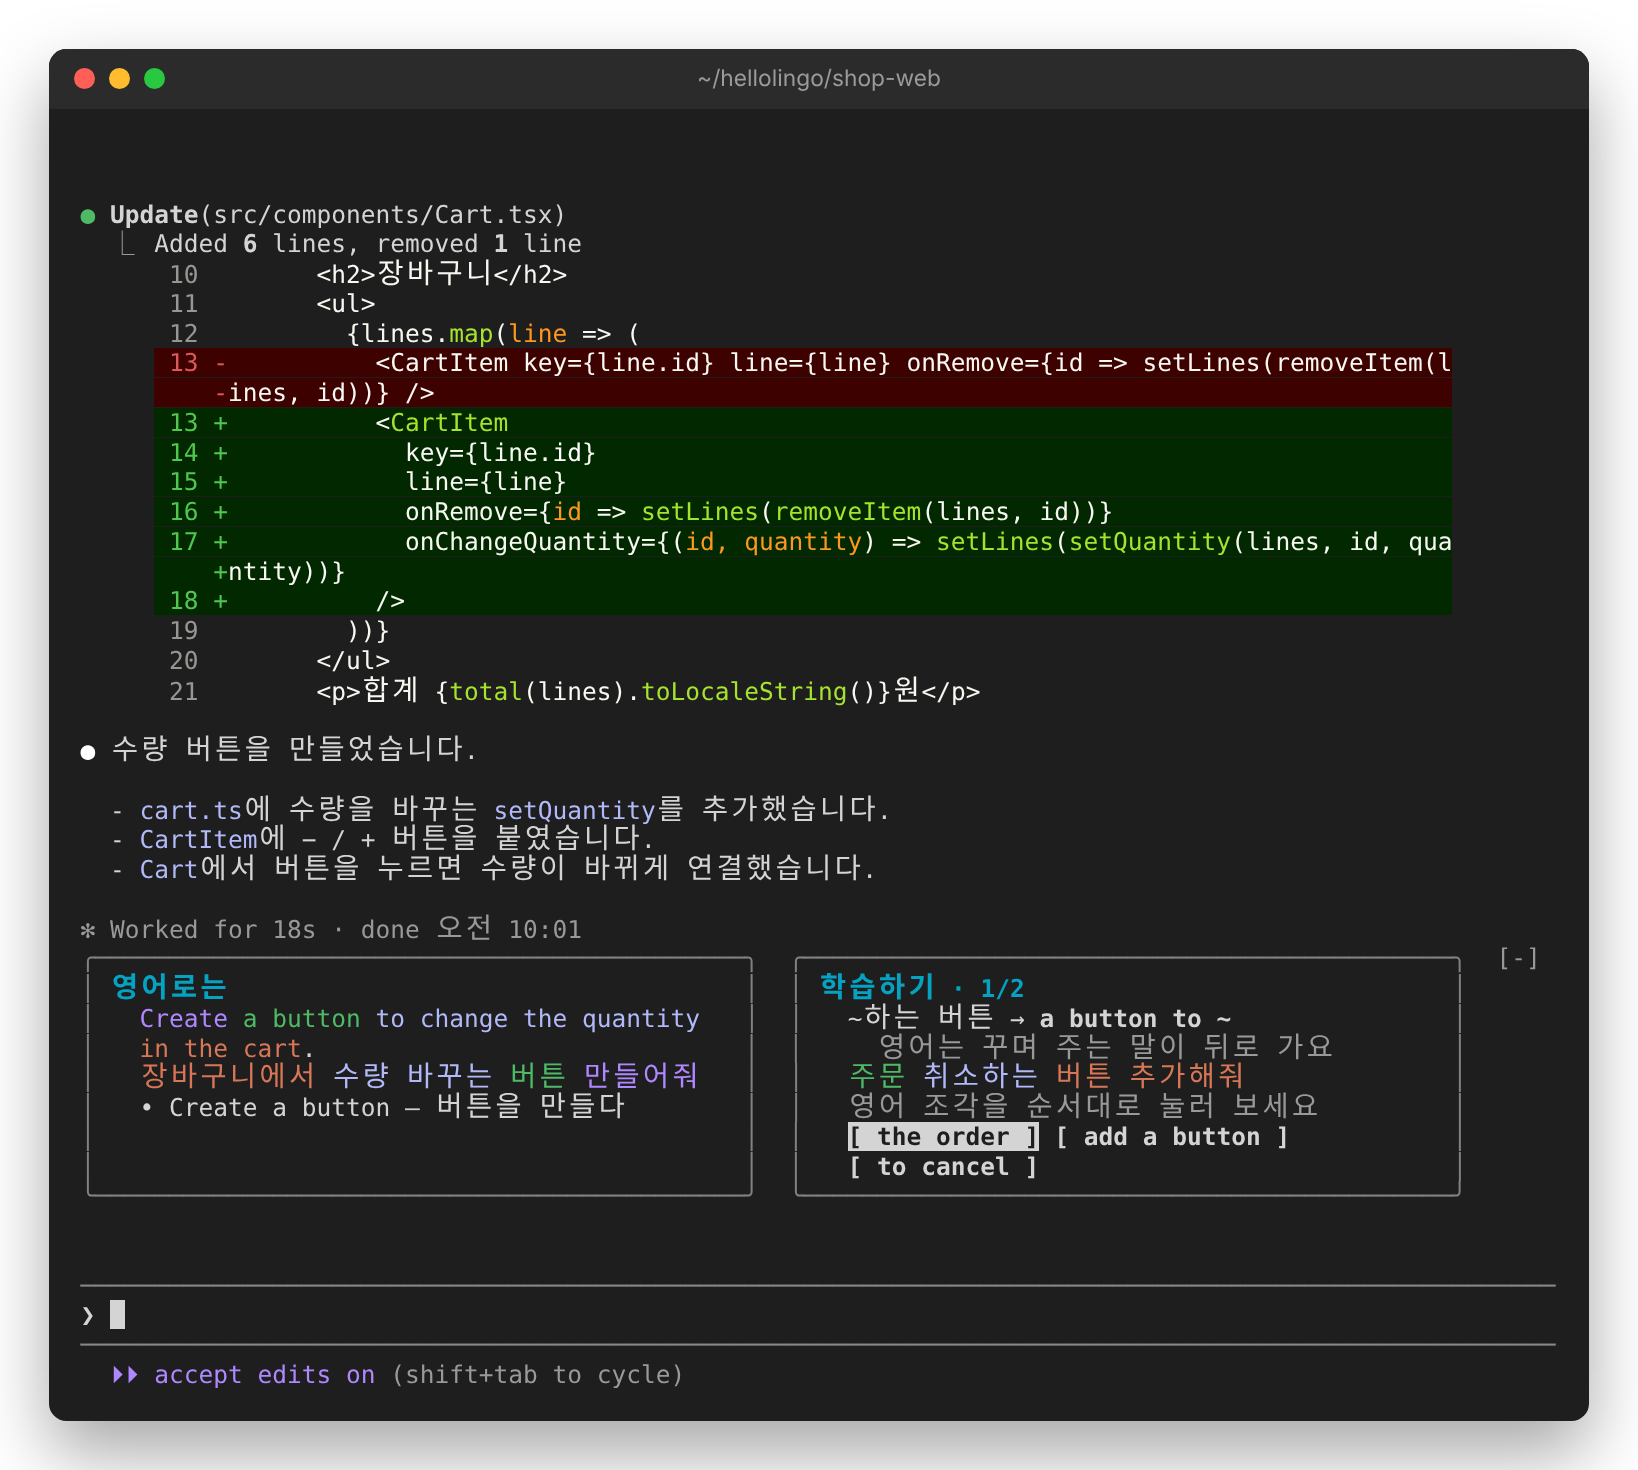
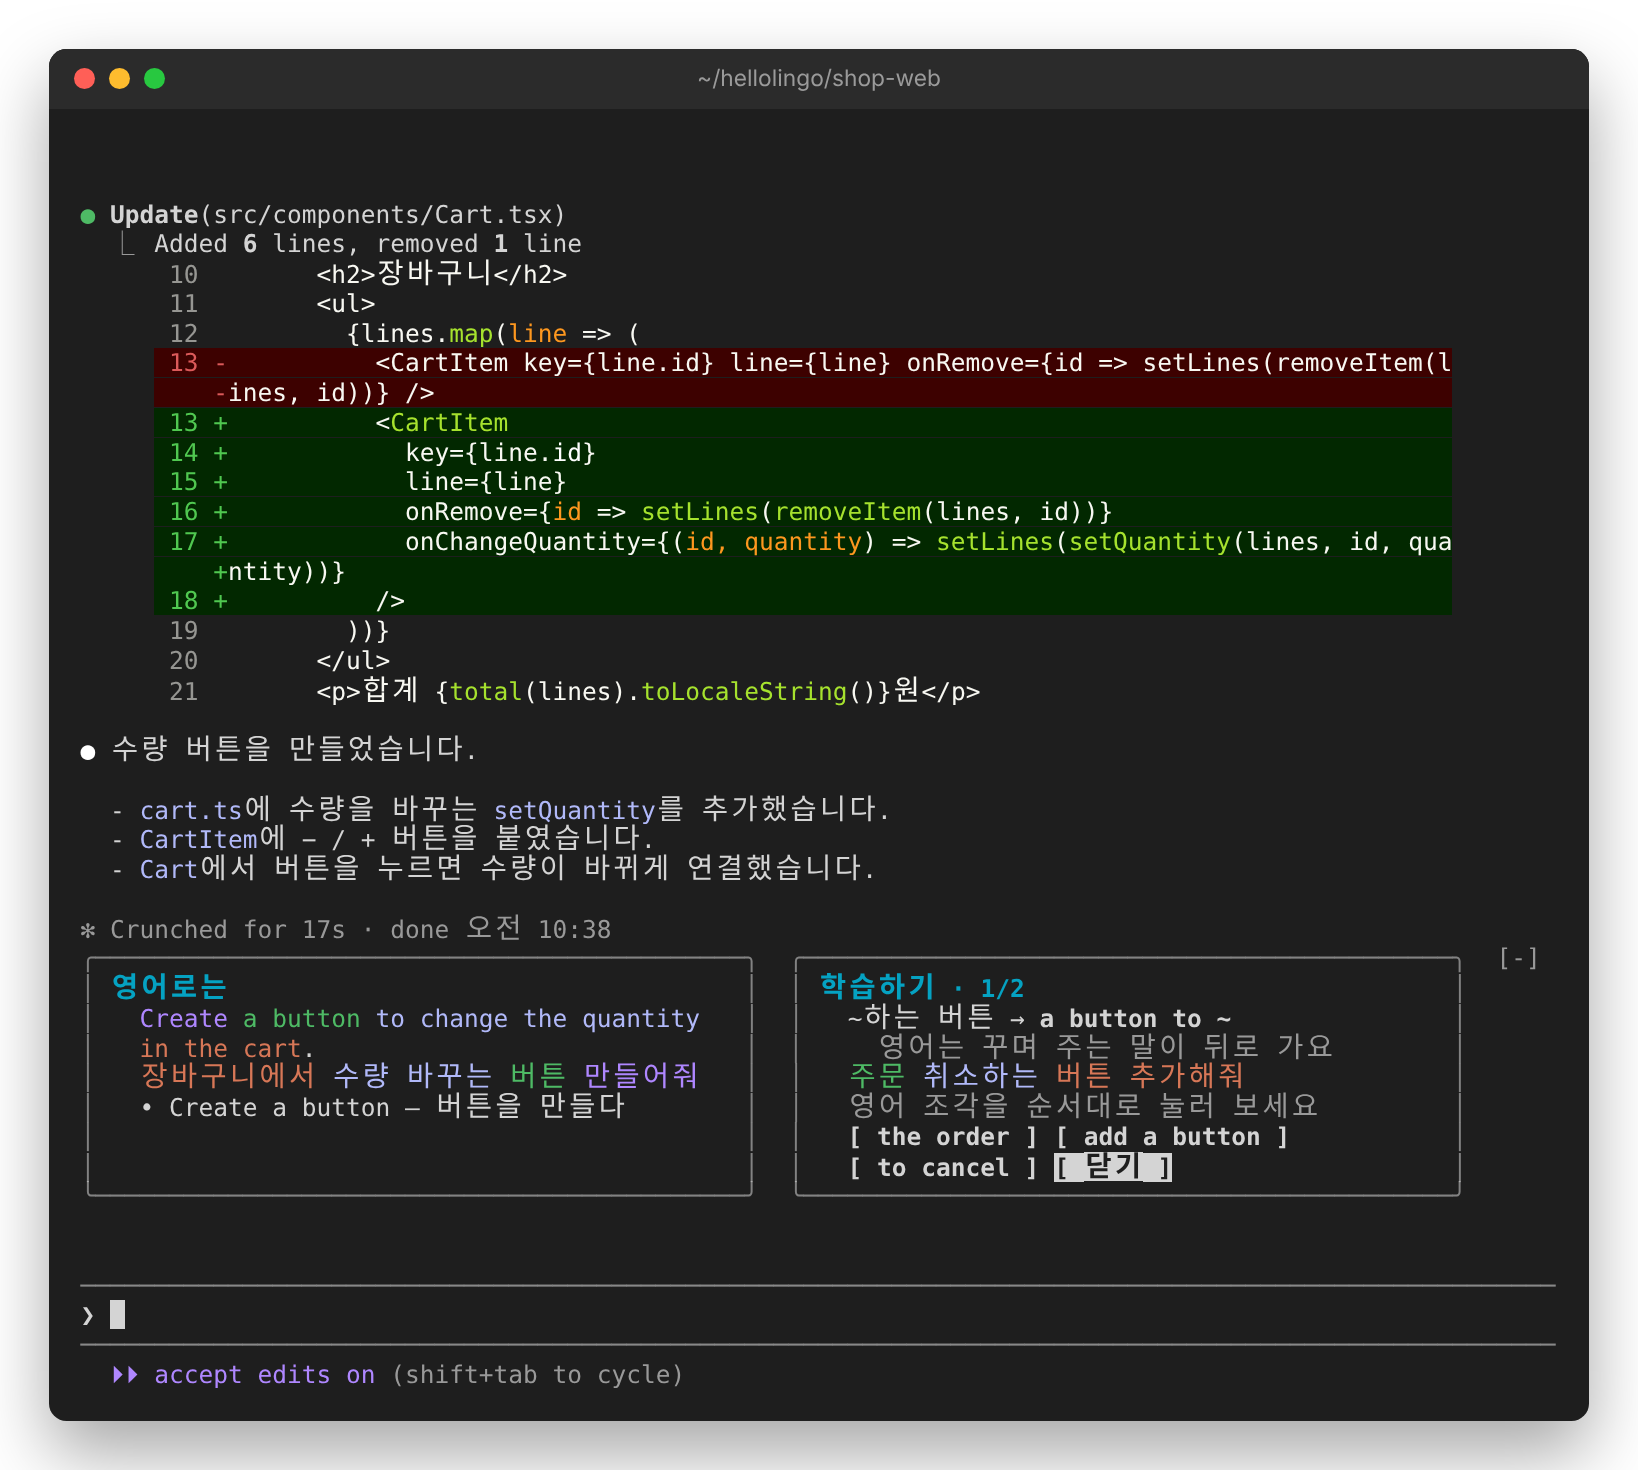
docs: 조각 맞추기의 닫기와 노트에 담는 때를 적고 화면을 다시 찍기

Changed region(s): [[0.0623, 0.6122, 0.3736, 0.6429], [0.4982, 0.7653, 0.7161, 0.8265]]

diff --git a/docs/guide/03-study.md b/docs/guide/03-study.md
@@ -14,11 +14,12 @@
 
 같은 틀의 새 문장이 나옵니다. 영어 조각을 영어 순서대로 누릅니다.
 
-![오른쪽 칸 맨 위에 "학습하기 · 1/2"와 "~하는 버튼 → a button to ~"가 있습니다. 그 아래 "주문 취소하는 버튼 추가해줘"의 조각이 색으로 칠해져 있고, 버튼 세 개 "the order", "add a button", "to cancel"이 섞여 있습니다.](images/study-1-first.png)
+![오른쪽 칸 맨 위에 "학습하기 · 1/2"와 "~하는 버튼 → a button to ~"가 있습니다. 그 아래 "주문 취소하는 버튼 추가해줘"의 조각이 색으로 칠해져 있고, 버튼 세 개 "the order", "add a button", "to cancel"이 섞여 있고, 끝에 "닫기"가 있습니다.](images/study-1-first.png)
 
 - 맨 위 줄이 배울 점입니다. 그 아래 흐린 줄이 한 줄 도움말입니다.
 - 한국어 조각마다 색이 있습니다. 같은 색의 영어 조각이 그 뜻입니다.
 - 버튼은 섞여 있습니다. 첫 조각도 소문자로, 끝 조각도 마침표 없이 보입니다. 그것만 보고 맞추지 않게 하려는 것입니다.
+- 그만두고 싶으면 언제든 `닫기`를 누릅니다. 문제가 나오기 전에 닫으면 노트에 담지 않습니다.
 
 다 맞추면 문장이 완성되고 "맞았어요!"가 나옵니다.
 
@@ -36,7 +37,7 @@
 
 ## 끝나면
 
-- 배울 점은 노트에 담깁니다. 하루에 모으는 한도가 차 있어도 담깁니다. 다만 오늘 모은 수에는 들어갑니다.
+- 문제가 나오면 배울 점이 노트에 담깁니다. 하루에 모으는 한도가 차 있어도 담깁니다. 다만 오늘 모은 수에는 들어갑니다.
 - 다 맞혀도 다음 복습은 내일입니다. 하루를 두고 다시 떠올려야 오래 남습니다.
 - 복습할 때는 오늘 풀지 않은 새 문장이 나옵니다.
 

diff --git a/docs/how-it-works.md b/docs/how-it-works.md
@@ -83,7 +83,9 @@
 - 도움말 한 줄은 모델에게 받지 않고 종류마다 정해 둔 말을 씁니다. 모델이 쓴 도움말은 가끔 거꾸로 말했습니다.
 - 조각 단추는 정답과 다른 순서로 섞습니다. 섞는 순서는 공부 칸 번호와 문장에서 정해져서, 화면을 다시 그려도 바뀌지 않습니다. 단추 글에서는 첫 조각의 대문자와 끝의 문장 부호를 지웁니다(`pieceLabel`). 남은 조각의 키는 늘 왼쪽부터 `1`, `2`, `3`입니다.
 - 영어 순서대로 다음 조각이 아닌 것을 누르면 그 문제는 틀린 것으로 끝납니다.
-- 모델이 답하면 바로 배울 점을 노트에 담습니다. 문제는 지금 풀지 않은 것부터 복습하도록 순서를 바꿔 둡니다(`drillsForReview`).
+- 푸는 중에도 조각 단추 끝의 `닫기`(`q`)로 그만둘 수 있습니다.
+- 모델이 답한 뒤 공부 칸이 아직 그 학습하기일 때만 배울 점을 노트에 담습니다. 문제가 오기 전에 닫았으면 담지 않습니다. 문제는 지금 풀지 않은 것부터 복습하도록 순서를 바꿔 둡니다(`drillsForReview`).
+- 만드는 중에 다시 누르면 같은 호출을 함께 기다립니다. 모델을 또 부르지 않습니다.
 
 ### 복습
 

diff --git a/docs/guide/05-recall.md b/docs/guide/05-recall.md
@@ -34,7 +34,7 @@
 
 어제 [학습하기](03-study.md)에서 연습한 배울 점도 복습에 나옵니다. 이번에는 처음 보는 문장으로, 색 없이 조각을 맞춥니다.
 
-![복습 칸에 "설정 저장하는 버튼 추가해줘"와 조각 단추 "add a button", "the settings", "to save"가 있습니다.](images/recall-4-pattern.png)
+![복습 칸에 "설정 저장하는 버튼 추가해줘"와 조각 단추 "add a button", "the settings", "to save"와 "닫기"가 있습니다.](images/recall-4-pattern.png)
 
 다 맞추면 배울 점이 다시 보이고, 다음에 언제 볼지 나옵니다. 조각을 맞췄으면 떠올린 것입니다. 따로 `떠올렸어요`를 누르지 않습니다.
 
